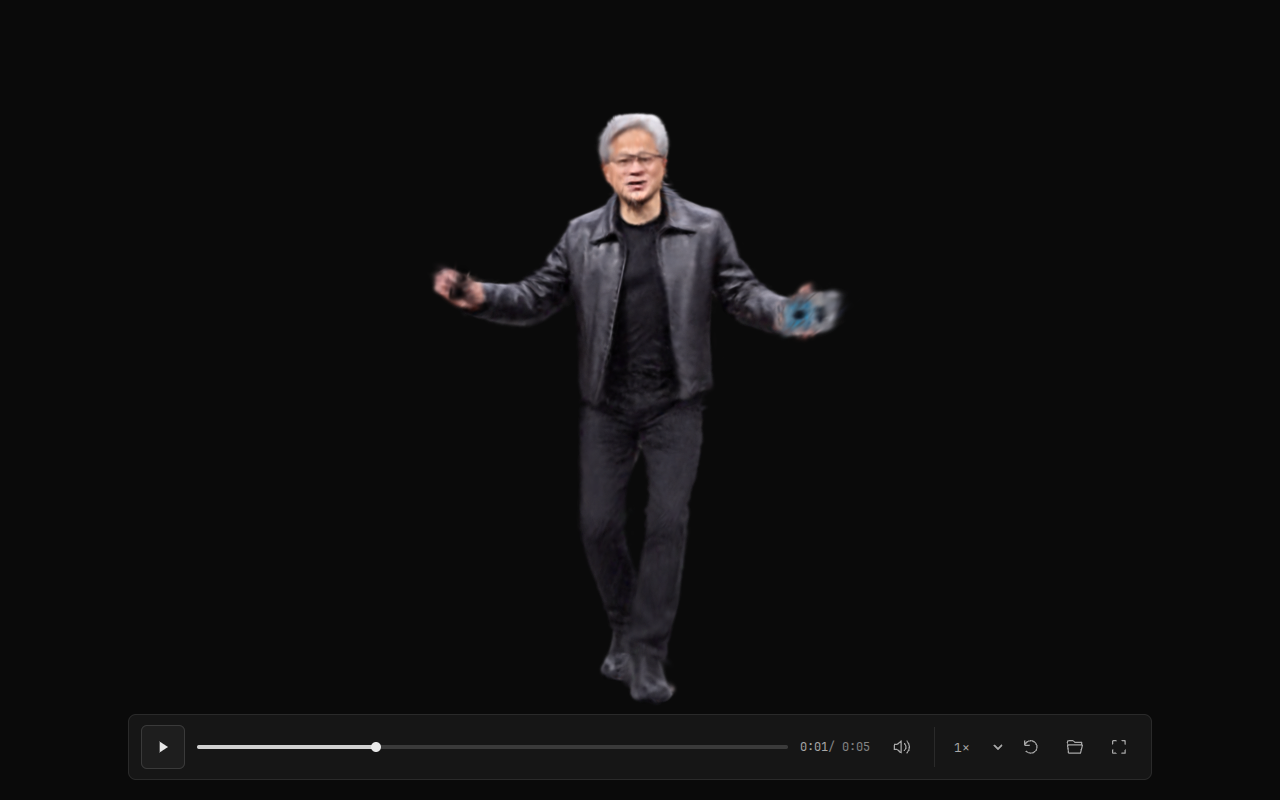
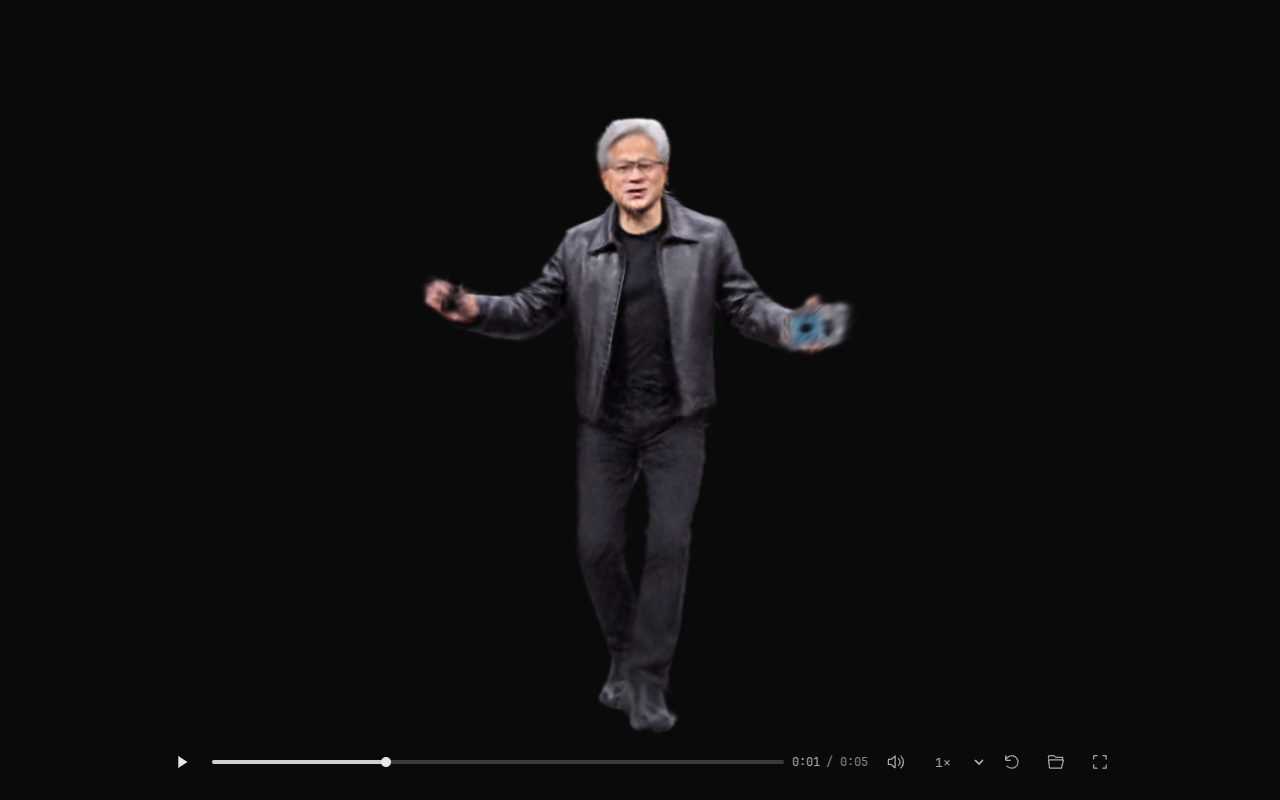
Simplify player opening flow and remove boxed playback controls

diff --git a/site/style.css b/site/style.css
@@ -1,36 +1,33 @@
 @import url("./theme.css");
-@import url("./transport.css?v=3");
+@import url("./transport.css?v=4");
 
 body { margin: 0; overflow: hidden; background: var(--bg-void); }
 button { padding: 0; border: 0; color: inherit; background: transparent; }
 .symbols { position: absolute; width: 0; height: 0; overflow: hidden; }
 #viewer, .embedded-player { position: relative; display: grid; grid-template-rows: minmax(0, 1fr) auto; width: 100%; height: 100dvh; min-height: 0; border: 0; overflow: hidden; background: var(--bg-void); }
 #canvas { grid-area: 1 / 1; align-self: center; display: block; width: 100%; height: 100%; max-height: 150vw; min-height: 0; touch-action: none; outline: none; }
-.welcome { position: absolute; top: 50%; left: 50%; transform: translate(-50%, -50%); width: min(760px, calc(100% - 48px)); max-height: calc(100% - 48px); overflow: auto; }
-.welcome-heading { margin-bottom: 24px; }
-.welcome-heading h1 { margin: 0; font-size: 28px; font-weight: 500; letter-spacing: -.6px; line-height: 1.25; }
-.welcome-heading p { margin: 8px 0 0; color: var(--text-secondary); font-size: 14px; }
-.welcome-choices { display: grid; grid-template-columns: 1.1fr .9fr; gap: 20px; }
-.empty { display: flex; flex-direction: column; align-items: center; justify-content: center; width: 100%; min-height: 252px; padding: 24px; border: 1px dashed var(--border-light); border-radius: var(--radius-lg); background: var(--bg-secondary); text-align: center; transition: background var(--transition), border-color var(--transition); }
-.empty:hover { border-color: var(--accent); background: var(--bg-tertiary); }
-.empty-icon { width: 28px; height: 28px; margin-bottom: 16px; color: var(--text-secondary); fill: none; stroke: currentColor; stroke-width: 1.3; stroke-linejoin: round; }
-.empty-title { font-size: 16px; font-weight: 500; }
-.empty-caption { margin-top: 4px; color: var(--text-secondary); font-size: 13px; }
-.choose-file { display: inline-flex; align-items: center; justify-content: center; min-height: 36px; margin-top: 16px; padding: 8px 20px; border-radius: var(--radius); color: var(--bg-primary); background: var(--text-primary); font-size: 13px; font-weight: 500; }
-.file-types { margin-top: 12px; color: var(--text-muted); font: 11px var(--font-mono); }
-.example-link { display: flex; flex-direction: column; overflow: hidden; border: 1px solid var(--border-color); border-radius: var(--radius-lg); color: var(--text-primary); background: var(--bg-secondary); transition: border-color var(--transition), background var(--transition); }
-.example-link:hover { border-color: var(--border-light); background: var(--bg-tertiary); }
-.example-preview { position: relative; display: block; flex: 1; min-height: 176px; overflow: hidden; background: var(--bg-void); }
+.welcome { position: absolute; top: 50%; left: 50%; transform: translate(-50%, -50%); width: min(480px, calc(100% - 32px)); max-height: calc(100% - 32px); padding: 24px; overflow: auto; border: 1px solid var(--border-color); border-radius: var(--radius-lg); background: var(--bg-secondary); }
+.welcome-heading { display: flex; align-items: center; justify-content: space-between; gap: 16px; margin-bottom: 20px; }
+.welcome-heading h1 { margin: 0; font-size: 18px; font-weight: 500; letter-spacing: -.25px; line-height: 1.5; }
+.welcome-heading nav { display: flex; gap: 16px; font-size: 12px; }
+.welcome-choices { display: flex; flex-direction: column; gap: 12px; }
+.empty { display: flex; flex-direction: column; align-items: center; justify-content: center; width: 100%; min-height: 156px; padding: 24px 12px; border: 1px dashed var(--border-light); border-radius: var(--radius); background: var(--bg-tertiary); text-align: center; transition: background var(--transition), border-color var(--transition); }
+.empty:hover { border-color: var(--accent); background: var(--bg-hover); }
+.empty-icon { width: 24px; height: 24px; margin-bottom: 12px; color: var(--text-secondary); fill: none; stroke: currentColor; stroke-width: 1.5; stroke-linejoin: round; }
+.empty-title { font-size: 14px; font-weight: 500; }
+.empty-caption { margin-top: 6px; color: var(--text-muted); font-size: 12px; }
+.example-link { display: flex; align-items: center; gap: 12px; min-height: 72px; padding: 4px; border-radius: var(--radius); color: var(--text-primary); transition: background var(--transition); }
+.example-link:hover { background: var(--bg-tertiary); }
+.example-preview { position: relative; display: block; flex: 0 0 80px; height: 64px; overflow: hidden; border-radius: var(--radius-sm); background: var(--bg-void); }
 .example-preview img { position: absolute; inset: 0; width: 100%; height: 100%; object-fit: cover; object-position: 50% 42%; }
-.preview-play { position: absolute; right: 12px; bottom: 12px; display: grid; place-items: center; width: 32px; height: 32px; border: 1px solid var(--border-light); border-radius: var(--radius-md); background: rgb(22 22 22 / 90%); }
-.preview-play svg { width: 16px; height: 16px; fill: currentColor; }
-.example-description { display: flex; align-items: center; justify-content: space-between; gap: 12px; padding: 16px; }
+.preview-play { display: grid; place-items: center; flex: 0 0 32px; width: 32px; height: 32px; margin-left: auto; color: var(--text-secondary); transition: color var(--transition); }
+.preview-play svg { width: 20px; height: 20px; fill: currentColor; }
+.example-link:hover .preview-play { color: var(--text-primary); }
+.example-description { min-width: 0; }
 .example-title, .example-caption { display: block; }
-.example-title { font-size: 14px; font-weight: 500; }
+.example-title { font-size: 13px; font-weight: 500; }
 .example-caption { margin-top: 4px; color: var(--text-muted); font-size: 12px; }
-.example-arrow { flex: 0 0 18px; width: 18px; height: 18px; fill: none; stroke: var(--text-secondary); stroke-width: 1.5; }
-.welcome-footer { display: flex; align-items: center; justify-content: space-between; flex-wrap: wrap; gap: 12px; margin-top: 20px; color: var(--text-muted); font-size: 12px; }
-.welcome-footer nav { display: flex; gap: 20px; }
+.welcome-footer { margin: 16px 0 0; color: var(--text-muted); font-size: 11px; text-align: center; }
 .message { position: absolute; z-index: 1; bottom: 104px; left: 50%; transform: translateX(-50%); max-width: min(520px, calc(100% - 32px)); padding: 16px 20px; border: 1px solid var(--border-color); border-radius: var(--radius-lg); background: var(--bg-secondary); color: var(--text-secondary); font-size: 14px; line-height: 1.6; text-align: center; overflow-wrap: anywhere; pointer-events: none; }
 #viewer:not([data-loaded]) .message, .message[data-state="loading"] { top: 50%; bottom: auto; transform: translate(-50%, -50%); }
 .message[data-state="loading"] { border: 0; background: transparent; }
@@ -39,7 +36,7 @@ button { padding: 0; border: 0; color: inherit; background: transparent; }
 #retry-example { display: flex; margin: 12px auto 0; pointer-events: auto; }
 .drop-hint { position: absolute; inset: 16px; z-index: 3; display: flex; flex-direction: column; align-items: center; justify-content: center; gap: 16px; border: 1px dashed var(--accent); border-radius: var(--radius-lg); background: rgb(10 10 10 / 94%); font-size: 16px; pointer-events: none; }
 .drop-hint svg { width: 32px; height: 32px; fill: none; stroke: currentColor; stroke-width: 1.4; }
-.controls { grid-area: 2 / 1; position: relative; container: playback / inline-size; width: min(1024px, calc(100% - 48px)); margin: 8px auto 20px; padding: 10px 12px; border: 1px solid var(--border-color); border-radius: var(--radius-lg); background: var(--bg-secondary); transition: opacity var(--transition-slow); }
+.controls { grid-area: 2 / 1; position: relative; container: playback / inline-size; width: min(960px, calc(100% - 32px)); margin: 0 auto 12px; padding: 4px 0; transition: opacity var(--transition-slow); }
 #viewer.idle .controls:not(:focus-within):not(:hover) { opacity: 0; pointer-events: none; }
 #viewer.idle #canvas { cursor: none; }
 .ar-button { font-size: 12px; font-weight: 500; }
@@ -49,30 +46,16 @@ button { padding: 0; border: 0; color: inherit; background: transparent; }
 #viewer[data-ar="presenting"] #open-file, #viewer[data-ar="presenting"] #fullscreen { display: none; }
 .ar-hint { padding: 8px 12px; font-size: 13px; }
 @media (max-width: 720px) {
-  .welcome { width: min(440px, calc(100% - 32px)); }
-  .welcome-heading { margin-bottom: 20px; }
-  .welcome-heading h1 { font-size: 25px; }
-  .welcome-choices { grid-template-columns: 1fr; gap: 12px; }
-  .empty { min-height: 206px; padding: 20px; }
-  .empty-icon { margin-bottom: 12px; }
-  .example-link { flex-direction: row; min-height: 96px; }
-  .example-preview { flex: 0 0 112px; min-height: 96px; }
-  .preview-play { width: 24px; height: 24px; right: 8px; bottom: 8px; }
-  .preview-play svg { width: 12px; height: 12px; }
-  .example-description { flex: 1; padding: 14px; }
-  .example-arrow { display: none; }
-  .welcome-footer { margin-top: 16px; font-size: 11px; }
-  .welcome-footer nav { gap: 16px; }
-  .controls { width: calc(100% - 16px); margin-bottom: max(8px, env(safe-area-inset-bottom)); padding: 6px 8px; }
+  .welcome { padding: 20px; }
+  .welcome-heading { gap: 12px; }
+  .welcome-heading h1 { font-size: 16px; }
+  .welcome-heading nav { gap: 12px; font-size: 11px; }
+  .controls { margin-bottom: max(8px, env(safe-area-inset-bottom)); }
 }
 @media (max-height: 480px) and (min-width: 721px) {
-  .welcome { width: min(680px, calc(100% - 40px)); max-height: calc(100% - 24px); }
+  .welcome { padding: 16px 24px; }
   .welcome-heading { margin-bottom: 12px; }
-  .welcome-heading h1 { font-size: 22px; }
-  .welcome-heading p { margin-top: 4px; }
-  .empty { min-height: 208px; padding: 16px; }
-  .example-preview { min-height: 128px; }
-  .example-description { padding: 12px 16px; }
+  .empty { min-height: 128px; padding: 16px; }
   .welcome-footer { margin-top: 12px; }
 }
 @keyframes spin { to { transform: rotate(360deg); } }

diff --git a/site/shell.js b/site/shell.js
@@ -12,29 +12,27 @@ export function mountPlayerShell(viewer) {
         <symbol id="expand" viewBox="0 0 24 24"><path d="M8.5 4.5h-4v4m11-4h4v4m-15 7v4h4m11-4v4h-4" /></symbol>
         <symbol id="collapse" viewBox="0 0 24 24"><path d="M4.5 8.5h4v-4m7 0v4h4m-15 7h4v4m7 0v-4h4" /></symbol>
         <symbol id="more" viewBox="0 0 24 24"><circle cx="5" cy="12" r="1"/><circle cx="12" cy="12" r="1"/><circle cx="19" cy="12" r="1"/></symbol>
-        <symbol id="arrow" viewBox="0 0 24 24"><path d="M4 12h16m-6-6 6 6-6 6" /></symbol>
       </defs>
     </svg>
     <canvas id="canvas" tabindex="0" aria-label="3D scene. Drag to orbit, Shift-drag to pan, scroll to zoom. WASD to move, Q/E down/up, Shift to move faster."></canvas>
     <section id="welcome" class="welcome" aria-labelledby="welcome-title">
       <div class="welcome-heading">
         <h1 id="welcome-title">FTGS Player</h1>
-        <p>Open and explore 4D scenes.</p>
+        <nav id="welcome-links" aria-label="Player resources"><a href="./examples/embedding.html">Embedding</a><a href="https://github.com/OpsiClear-4DGS/ftgs-player">Source</a></nav>
       </div>
       <div class="welcome-choices">
         <button id="empty" class="empty" aria-label="Choose a .ftgs.ply or .tsog file">
           <svg class="empty-icon" aria-hidden="true"><use href="#open" /></svg>
-          <span class="empty-title">Open a scene</span>
-          <span class="empty-caption">Drag a file here</span>
-          <span class="choose-file">Choose file</span>
-          <span class="file-types">.tsog · .ftgs.ply</span>
+          <span class="empty-title">Open scene</span>
+          <span class="empty-caption">or drop a .tsog or .ftgs.ply file</span>
         </button>
         <a class="example-link" href="?example=jensen-2m" aria-label="Play example scene">
-          <span class="example-preview"><img src="./site/assets/example.png" alt="" /><span class="preview-play"><svg aria-hidden="true"><use href="#play" /></svg></span></span>
-          <span class="example-description"><span><span class="example-title">Play example</span><span class="example-caption">5 seconds · audio · 45 MB</span></span><svg class="example-arrow" aria-hidden="true"><use href="#arrow" /></svg></span>
+          <span class="example-preview"><img src="./site/assets/example.png" alt="" /></span>
+          <span class="example-description"><span class="example-title">Play example</span><span class="example-caption">5 seconds · audio · 45 MB</span></span>
+          <span class="preview-play"><svg aria-hidden="true"><use href="#play" /></svg></span>
         </a>
       </div>
-      <div class="welcome-footer"><span>Local files stay in your browser.</span><nav id="welcome-links" aria-label="Player resources"><a href="./examples/embedding.html">Embedding</a><a href="https://github.com/OpsiClear-4DGS/ftgs-player">Source</a></nav></div>
+      <p class="welcome-footer">Local files stay in your browser.</p>
     </section>
     <input id="file" type="file" accept=".ply,.tsog" hidden aria-label="Open splat file" />
     <div id="message" class="message" role="status" hidden><span id="message-text"></span><button id="retry-example" class="button" hidden>Retry</button></div>

diff --git a/site/transport.css b/site/transport.css
@@ -1,5 +1,5 @@
 /* Opt-in website controls, shared by the standalone and example hosts. */
-.transport { display: flex; align-items: center; gap: 12px; min-width: 0; }
+.transport { display: flex; align-items: center; gap: 8px; min-width: 0; }
 .icon-button {
   position: relative;
   display: grid;
@@ -19,7 +19,8 @@
 .icon-button:active { background: var(--accent-dim); }
 .icon-button svg { width: 20px; height: 20px; fill: none; stroke: currentColor; stroke-width: 1.5; stroke-linejoin: round; stroke-linecap: round; }
 .icon-button .solid-icon { fill: currentColor; stroke: none; }
-#play-toggle { flex-basis: 44px; width: 44px; height: 44px; color: var(--text-primary); background: var(--bg-tertiary); border: 1px solid var(--border-light); }
+#play-toggle { flex-basis: 44px; width: 44px; height: 44px; color: var(--text-primary); }
+#play-toggle svg { width: 22px; height: 22px; }
 .timeline-area { position: relative; flex: 1; min-width: 60px; height: 44px; display: flex; align-items: center; }
 #timeline {
   --progress: 0%;
@@ -43,11 +44,11 @@
 .seek-preview { position: absolute; bottom: 44px; left: var(--preview, 0%); transform: translateX(-50%); padding: 4px 8px; border: 1px solid var(--border-light); border-radius: var(--radius); background: var(--bg-elevated); font-size: 12px; opacity: 0; pointer-events: none; }
 .timeline-area[data-preview] .seek-preview { opacity: 1; }
 #timecode { flex: 0 0 auto; color: var(--text-secondary); font-size: 12px; white-space: nowrap; }
-#timecode span { color: var(--text-muted); }
+#timecode span { margin-left: 6px; color: var(--text-muted); }
 .audio-controls { position: relative; display: flex; align-items: center; }
 #volume { position: absolute; bottom: 50px; left: 50%; transform: translateX(-50%); width: 96px; margin: 0; padding: 12px; border: 1px solid var(--border-light); border-radius: var(--radius-md); opacity: 0; accent-color: var(--accent); background: var(--bg-elevated); pointer-events: none; }
 .audio-controls:hover #volume, .audio-controls:focus-within #volume { opacity: 1; pointer-events: auto; }
-.utility-actions { display: flex; align-items: center; flex: 0 0 auto; gap: 4px; padding-left: 8px; border-left: 1px solid var(--border-color); }
+.utility-actions { display: flex; align-items: center; flex: 0 0 auto; gap: 4px; }
 .playback-rate { width: 64px; height: 40px; padding: 0 6px; border: 1px solid transparent; border-radius: var(--radius-md); background: transparent; color: var(--text-secondary); font-size: 13px; cursor: pointer; }
 .playback-rate:hover { color: var(--text-primary); background: var(--bg-hover); }
 .playback-rate option { background: var(--bg-elevated); }

diff --git a/examples/embedding.css b/examples/embedding.css
@@ -5,7 +5,7 @@ h1 { margin: 0; font-size: 24px; font-weight: 500; letter-spacing: -.4px; }
 #description { margin: 6px 0 0; color: var(--text-secondary); font-size: 13px; }
 .example-heading > a { font-size: 12px; white-space: nowrap; }
 nav { display: flex; align-items: center; flex-wrap: wrap; gap: 12px; margin-bottom: 16px; }
-.modes { display: flex; gap: 2px; padding: 3px; border: 1px solid var(--border-color); border-radius: var(--radius-md); background: var(--bg-secondary); }
+.modes { display: flex; gap: 2px; padding: 3px; border-radius: var(--radius-md); background: var(--bg-secondary); }
 .modes a { padding: 6px 16px; border-radius: var(--radius); font-size: 13px; }
 .modes [aria-current="page"] { color: var(--text-primary); background: var(--bg-hover); }
 nav .button { min-height: 36px; font-size: 13px; }
@@ -15,7 +15,7 @@ nav .button { min-height: 36px; font-size: 13px; }
 canvas, iframe { display: block; align-self: center; width: 100%; height: 100%; min-height: 0; border: 0; touch-action: none; }
 canvas { max-height: 150vw; }
 .symbols { position: absolute; width: 0; height: 0; overflow: hidden; }
-.controls { position: relative; container: playback / inline-size; padding: 10px 12px; border-top: 1px solid var(--border-color); background: var(--bg-secondary); }
+.controls { position: relative; container: playback / inline-size; padding: 4px 12px 8px; background: var(--bg-void); }
 .player-stage:fullscreen { width: 100%; height: 100dvh; min-height: 0; border: 0; border-radius: 0; }
 .player-stage:fullscreen::backdrop { background: var(--bg-void); }
 .player-stage:fullscreen .controls { padding-bottom: max(10px, env(safe-area-inset-bottom)); }

diff --git a/examples/embedding.html b/examples/embedding.html
@@ -4,8 +4,8 @@
   <meta charset="utf-8"><meta name="viewport" content="width=device-width,initial-scale=1,viewport-fit=cover">
   <title>Embedding · FTGS Player</title><link rel="icon" href="data:,">
   <link rel="stylesheet" href="../site/theme.css">
-  <link rel="stylesheet" href="../site/transport.css?v=3">
-  <link rel="stylesheet" href="./embedding.css?v=3">
+  <link rel="stylesheet" href="../site/transport.css?v=4">
+  <link rel="stylesheet" href="./embedding.css?v=4">
 </head>
 <body>
 <main>

diff --git a/index.html b/index.html
@@ -13,10 +13,10 @@
     />
     <title>FTGS Player</title>
     <link rel="icon" href="data:," />
-    <link rel="stylesheet" href="./site/style.css?v=3" />
+    <link rel="stylesheet" href="./site/style.css?v=4" />
   </head>
   <body>
     <main id="viewer" data-state="empty" aria-label="FTGS player"></main>
-    <script type="module" src="./site/app.js?v=3"></script>
+    <script type="module" src="./site/app.js?v=4"></script>
   </body>
 </html>

diff --git a/site/app.js b/site/app.js
@@ -1,7 +1,7 @@
 import { FTGSPlayer } from "../src/player.js";
 import { attachPlayerBridge } from "./bridge.js";
 import { demoFile } from "./demo.js";
-import { mountPlayerShell } from "./shell.js?v=3";
+import { mountPlayerShell } from "./shell.js?v=4";
 import { readExample, downloadExample } from "./examples.js?v=2";
 
 mountPlayerShell(document.getElementById("viewer"));

diff --git a/docs/DESIGN.md b/docs/DESIGN.md
@@ -6,14 +6,17 @@ and [style reference](https://github.com/ColmapView/Colmapview.github.io/blob/ma
 The shared tokens live in `site/theme.css`: neutral charcoal surfaces, silver
 accents, a 4 px spacing scale, restrained borders and 4–8 px corner radii.
 
-The opening screen offers a file drop area and a preview card labelled
-"Play example". Supporting links sit below those choices. During playback,
-the scene occupies its own area above the playback dock, so controls never
+The opening screen is one compact panel: a single "Open scene" file drop area,
+a small example row labelled "Play example", and quiet resource links in the
+panel heading. During playback, the scene occupies its own area above the
+playback dock, so controls never
 cover its content. Very tall viewports use a portrait canvas with space above
 and below, keeping the scene's horizontal framing useful on phones.
 
-The dock uses one row on wide screens and two on narrow containers. Secondary
-view actions move into a keyboard-accessible menu. Play, time, audio, speed
+The borderless dock uses one row on wide screens and two on narrow containers.
+Play and pause are plain icons with a subtle surface on hover or keyboard focus,
+and 44 px hit areas. Secondary view actions move into a keyboard-accessible
+menu. Play, time, audio, speed
 and fullscreen remain available; fullscreen is the last control at the bottom
 right. Controls fade while playing and stay visible on hover or keyboard focus.
 There is no persistent title bar or sidebar.

diff --git a/docs/PLAYER.md b/docs/PLAYER.md
@@ -9,8 +9,8 @@ site without runtime dependencies.
 
 Drop a `.ftgs.ply` or `.tsog` onto the page, or click to choose a file.
 Playback starts automatically and uses the file's speed and loop defaults when
-provided. The scene fills the window, with a full-width timeline and playback
-controls along the bottom. The controls fade during playback and
+provided. The scene fills the window, with a compact, borderless timeline and
+playback controls below it. The controls fade during playback and
 return on movement or touch. Hover over the timeline to preview a time; use the
 folder button to open another file. Local files stay in the browser.
 
@@ -36,8 +36,9 @@ to keep a track while changing defaults, or use `--remove-audio` to remove it.
 Existing output files are never overwritten. This command updates an existing
 TSOG version-4 package; it does not convert a `.ftgs.ply` into TSOG.
 
-If audible autoplay is blocked, the scene continues and the sound button shows
-**Enable audio**. Click it or press M to start sound at the current scene time.
+Audio starts enabled. If audible autoplay is blocked, the website pauses the
+scene. Press **Play** to start the scene and its audio together, or use
+**Enable audio** (M).
 Audio format support depends on the browser; a codec error leaves the scene
 playable. A short soundtrack leaves silence at the end, and a longer one stops
 at the end of the scene. Audio pauses with a hidden desktop tab or lost XR tracking.
